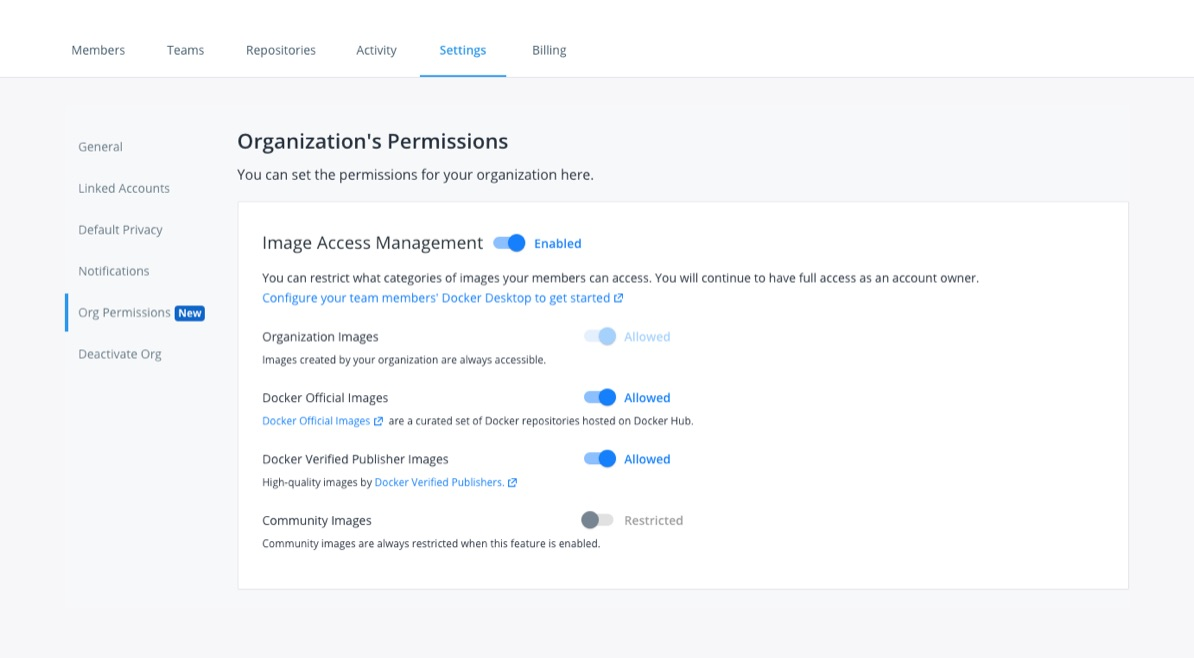
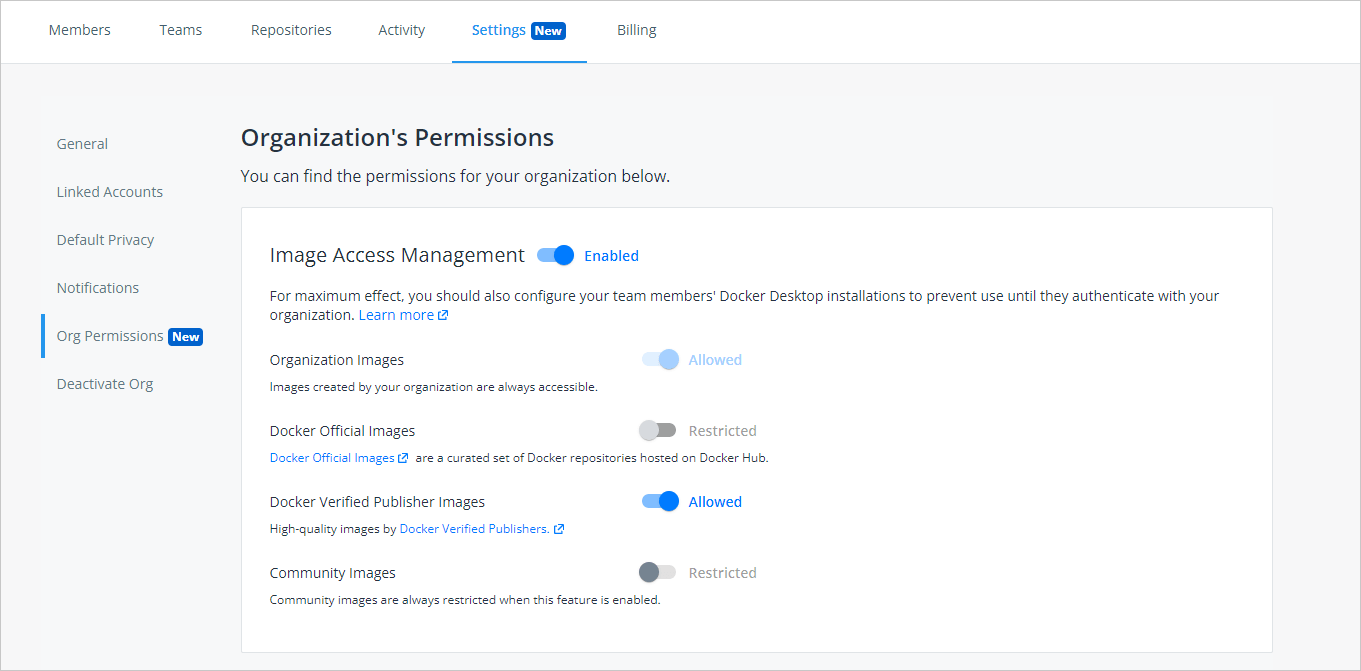
updated image

diff --git a/docker-hub/image-access-management.md b/docker-hub/image-access-management.md
@@ -91,4 +91,11 @@ To ensure that each org member uses images in a safe and secure environment, you
 
         Congratulations, you have just created the registry.json file.
 
-    5. Members of your organization are now required to log into Docker Desktop using their org credentials. To confirm that the restrictions are successful, verify with each org member on their local machine.
+    5. Members of your organization are now required to log into Docker Desktop using their org credentials. To confirm that the restrictions are successful, enable the Image Access Management feature and verify with each org member on their local machine.
+
+    > **Note**:
+    >
+    > Each member can test the restrictions by pulling an image from Hub
+    onto their local machine. If you have enabled the restrictions in Hub, your
+    member can pull the image. If you disable the restrictions in Hub,
+    an error message will display, and your member is denied the pull access.
